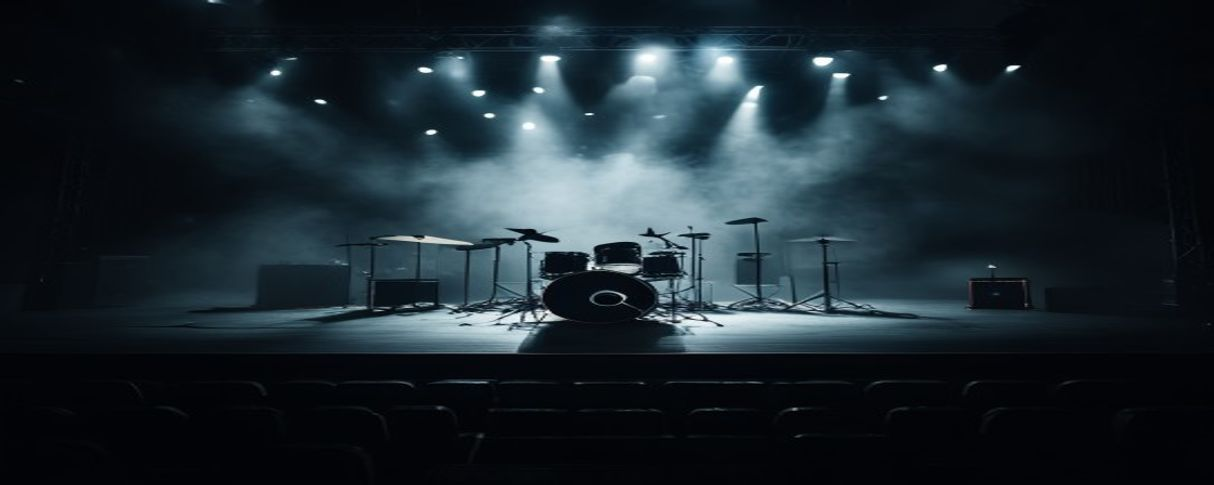
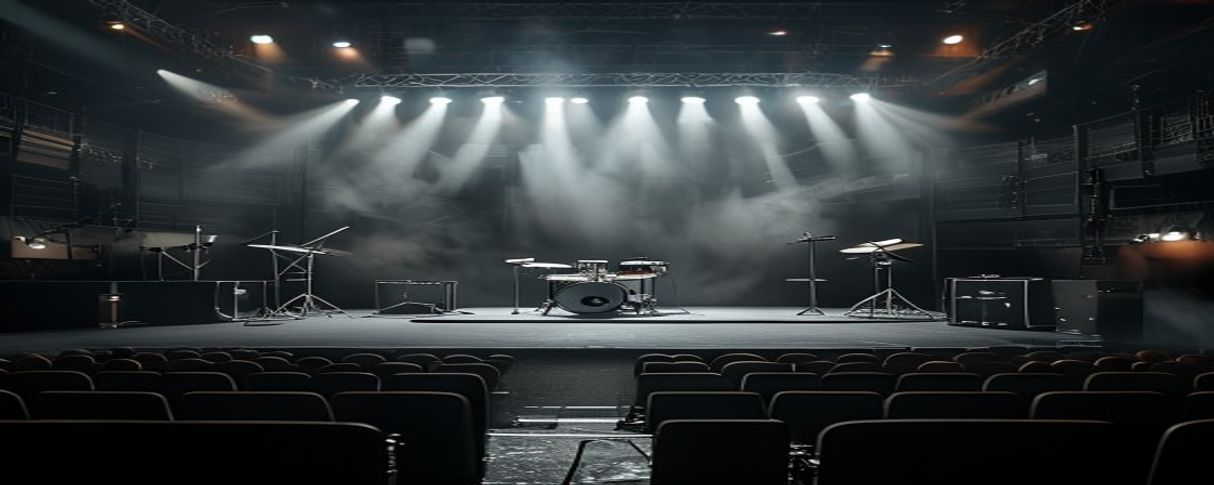
Light Studio: volumetric light + upgraded stage photo
- Beams now composite additively over the photo (lighter blend), so
  overlapping colors mix like real light — verified red+green overlap
  raises both channels; three nested cones give each beam a hot core,
  haze specks drift inside active beams, floor pools gained glossy
  deck reflections, and lit fixtures bloom
- New backdrop (generated, seed 203): deeper venue with balconies,
  full backline across the stage, truss beams that blend with ours
- lights.js v4, service worker cache bumped

diff --git a/static/js/lights.js b/static/js/lights.js
@@ -84,6 +84,12 @@
   var bgImg = new Image();
   bgImg.src = "/static/img/stage-bg.jpg";   // generated backdrop; drawn scene is the fallback
 
+  function hz(n) {
+    // Cheap deterministic hash for haze specks — stable per bar/particle.
+    var x = Math.sin(n * 12.9898) * 43758.5453;
+    return x - Math.floor(x);
+  }
+
   function barPos(i, bars, w, h) {
     // Normalized positions persist in the show; defaults: truss + floor rows.
     var key = String(i);
@@ -133,6 +139,10 @@
     var bars = show.bars;
     barRects = [];
 
+    // Light adds like real light: additive compositing over the photo.
+    g.save();
+    g.globalCompositeOperation = "lighter";
+    var WIDTHS = [1, 0.62, 0.3], ALPHAS = [0.16, 0.24, 0.4];
     for (var i = 1; i <= bars; i++) {
       var p = barPos(i, bars, w, h);
       var bx = p[0] * w, by = p[1] * h;
@@ -140,38 +150,65 @@
       var col = look.rgb, a = look.inten;
       if (a > 0.02) {
         var vert = (show.rot || {})[String(i)] === 90;
+        var c3;
         if (vert) {
-          // Side stick: beam sweeps horizontally toward center stage.
           var ex = bx < w / 2 ? bx + w * 0.42 : bx - w * 0.42;
-          var hgrad = g.createLinearGradient(bx, by, ex, by);
-          hgrad.addColorStop(0, "rgba(" + col.join(",") + "," + (0.5 * a).toFixed(3) + ")");
-          hgrad.addColorStop(1, "rgba(" + col.join(",") + ",0)");
-          g.fillStyle = hgrad;
-          g.beginPath();
-          g.moveTo(bx, by - 16); g.lineTo(bx, by + 16);
-          g.lineTo(ex, by + 60); g.lineTo(ex, by - 60);
-          g.closePath(); g.fill();
+          for (c3 = 0; c3 < 3; c3++) {
+            var hw = 60 * WIDTHS[c3];
+            var hgrad = g.createLinearGradient(bx, by, ex, by);
+            hgrad.addColorStop(0, "rgba(" + col.join(",") + "," + (ALPHAS[c3] * a).toFixed(3) + ")");
+            hgrad.addColorStop(1, "rgba(" + col.join(",") + ",0)");
+            g.fillStyle = hgrad;
+            g.beginPath();
+            g.moveTo(bx, by - 16 * WIDTHS[c3]); g.lineTo(bx, by + 16 * WIDTHS[c3]);
+            g.lineTo(ex, by + hw); g.lineTo(ex, by - hw);
+            g.closePath(); g.fill();
+          }
+          for (var k = 0; k < 7; k++) {
+            var pr = (hz(i * 97 + k) + t * 0.02 * (0.5 + hz(i + k))) % 1;
+            var px = bx + (ex - bx) * pr;
+            var py = by + (hz(i * 31 + k) - 0.5) * 2 * (16 + 44 * pr);
+            g.fillStyle = "rgba(" + col.join(",") + "," + (0.35 * a * (1 - pr)).toFixed(3) + ")";
+            g.beginPath(); g.arc(px, py, 1.6, 0, 7); g.fill();
+          }
         } else {
-        var down = p[1] < 0.5;
-        var ly = down ? h * 0.86 : h * 0.1;
-        var grad = g.createLinearGradient(bx, by, bx, ly);
-        grad.addColorStop(0, "rgba(" + col.join(",") + "," + (0.5 * a).toFixed(3) + ")");
-        grad.addColorStop(1, "rgba(" + col.join(",") + ",0)");
-        g.fillStyle = grad;
-        g.beginPath();
-        g.moveTo(bx - 16, by); g.lineTo(bx + 16, by);
-        g.lineTo(bx + 70, ly); g.lineTo(bx - 70, ly);
-        g.closePath(); g.fill();
-        if (down) {
-          var pool = g.createRadialGradient(bx, h * 0.8, 4, bx, h * 0.8, 80);
-          pool.addColorStop(0, "rgba(" + col.join(",") + "," + (0.35 * a).toFixed(3) + ")");
-          pool.addColorStop(1, "rgba(" + col.join(",") + ",0)");
-          g.fillStyle = pool;
-          g.beginPath(); g.ellipse(bx, h * 0.8, 85, 26, 0, 0, 7); g.fill();
-        }
+          var down = p[1] < 0.5;
+          var ly = down ? h * 0.86 : h * 0.1;
+          for (c3 = 0; c3 < 3; c3++) {
+            var lw = 70 * WIDTHS[c3];
+            var grad = g.createLinearGradient(bx, by, bx, ly);
+            grad.addColorStop(0, "rgba(" + col.join(",") + "," + (ALPHAS[c3] * a).toFixed(3) + ")");
+            grad.addColorStop(1, "rgba(" + col.join(",") + ",0)");
+            g.fillStyle = grad;
+            g.beginPath();
+            g.moveTo(bx - 16 * WIDTHS[c3], by); g.lineTo(bx + 16 * WIDTHS[c3], by);
+            g.lineTo(bx + lw, ly); g.lineTo(bx - lw, ly);
+            g.closePath(); g.fill();
+          }
+          for (var k2 = 0; k2 < 7; k2++) {
+            var pr2 = (hz(i * 53 + k2) + t * 0.02 * (0.5 + hz(i * 7 + k2))) % 1;
+            var py2 = by + (ly - by) * pr2;
+            var px2 = bx + (hz(i * 17 + k2) - 0.5) * 2 * (16 + 54 * pr2);
+            g.fillStyle = "rgba(" + col.join(",") + "," + (0.35 * a * (1 - pr2)).toFixed(3) + ")";
+            g.beginPath(); g.arc(px2, py2, 1.6, 0, 7); g.fill();
+          }
+          if (down) {
+            var pool = g.createRadialGradient(bx, h * 0.8, 4, bx, h * 0.8, 90);
+            pool.addColorStop(0, "rgba(" + col.join(",") + "," + (0.4 * a).toFixed(3) + ")");
+            pool.addColorStop(1, "rgba(" + col.join(",") + ",0)");
+            g.fillStyle = pool;
+            g.beginPath(); g.ellipse(bx, h * 0.8, 95, 28, 0, 0, 7); g.fill();
+            // Glossy-deck reflection streak under the pool
+            var refl = g.createLinearGradient(bx, h * 0.8, bx, h * 0.98);
+            refl.addColorStop(0, "rgba(" + col.join(",") + "," + (0.12 * a).toFixed(3) + ")");
+            refl.addColorStop(1, "rgba(" + col.join(",") + ",0)");
+            g.fillStyle = refl;
+            g.fillRect(bx - 24, h * 0.8, 48, h * 0.18);
+          }
         }
       }
     }
+    g.restore();
 
     // Backline silhouettes (audience view) — drawn fallback only
     if (!bgReady) {
@@ -221,6 +258,16 @@
         if (vert2) g.arc(x2, y2 - bh / 2 + 6 + s2 * 8.4, 2.6, 0, 7);
         else g.arc(x2 - bw / 2 + 6 + s2 * 8.4, y2, 2.6, 0, 7);
         g.fill();
+      }
+      if (lk.inten > 0.02) {
+        g.save();
+        g.globalCompositeOperation = "lighter";
+        var bloom = g.createRadialGradient(x2, y2, 1, x2, y2, 30 + 26 * lk.inten);
+        bloom.addColorStop(0, "rgba(" + lk.rgb.join(",") + "," + (0.5 * lk.inten).toFixed(3) + ")");
+        bloom.addColorStop(1, "rgba(" + lk.rgb.join(",") + ",0)");
+        g.fillStyle = bloom;
+        g.beginPath(); g.arc(x2, y2, 30 + 26 * lk.inten, 0, 7); g.fill();
+        g.restore();
       }
       g.fillStyle = "#8a8272"; g.font = "9px Arial";
       g.fillText(String(j), x2 - bw / 2, y2 - bh / 2 - 4);
@@ -469,7 +516,7 @@
 
   window.__lightsTest = {show: function () { return show; },
                          lightingAt: lightingAt, membersOf: membersOf,
-                         dmxFrame: dmxFrame};
+                         dmxFrame: dmxFrame, drawStage: drawStage};
   renderCues();
   loop();
 })();

diff --git a/static/js/sw.js b/static/js/sw.js
@@ -1,7 +1,7 @@
 /* Street Banker service worker — conservative on purpose:
    static assets cache-first, pages always network (dashboards must
    never go stale), offline navigations get a friendly fallback. */
-var VERSION = "sb-v5";
+var VERSION = "sb-v6";
 var PRECACHE = ["/static/offline.html", "/static/img/streetbanker-logo.svg",
                 "/static/img/icon-192.png", "/static/manifest.json"];
 

diff --git a/templates/lights.html b/templates/lights.html
@@ -61,5 +61,5 @@
 </div>
 
 <script>window.__savedShow = {{ saved_show | safe }};</script>
-<script src="/static/js/lights.js?v=3"></script>
+<script src="/static/js/lights.js?v=4"></script>
 {% endblock %}
